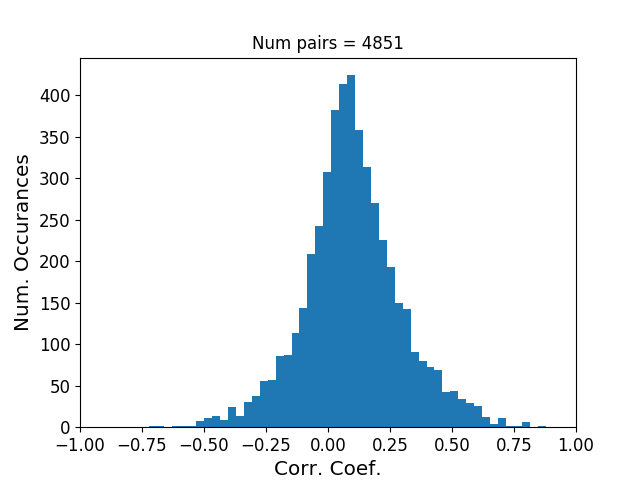
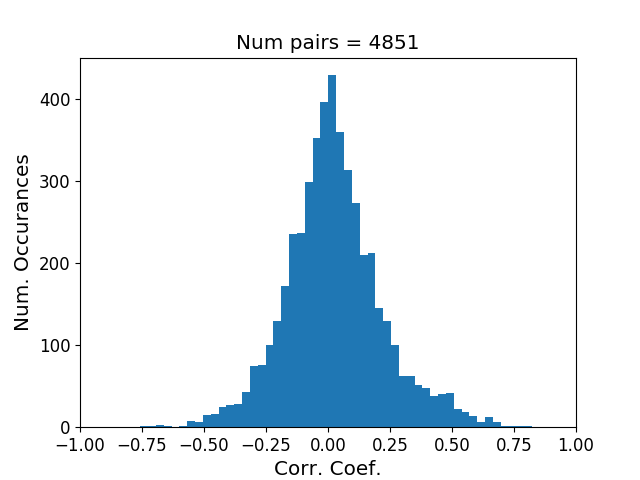
Added some code to the measurement analysis.

diff --git a/py/measurement_distribution_analysis.py b/py/measurement_distribution_analysis.py
@@ -35,9 +35,20 @@ def plotMeasureHistogram(analysis_frame, measurement, x_label, y_label, x_lims=N
     plt.title(title, fontsize='x-large') if title != '' else None
     plt.xticks(fontsize='large'); plt.yticks(fontsize='large')
 
-m=0
+cell_info = pd.read_csv(os.path.join(csv_dir, 'cell_info.csv'), index_col=0)
+m=1
 mouse_name = ep.mouse_names[m]
 analysis_frame = ep.loadAnalysisFrame(mouse_name, args.bin_width, csv_dir)
+analysis_frame = analysis_frame.join(cell_info['cell_region'], how='left', on='first_cell_id')
+analysis_frame = analysis_frame.rename(columns={'cell_region':'first_cell_region'})
+analysis_frame = analysis_frame.join(cell_info['cell_region'], how='left', on='second_cell_id')
+analysis_frame = analysis_frame.rename(columns={'cell_region':'second_cell_region'})
+data_regions = analysis_frame.first_cell_region.unique().values
+measure_regional_aggregation = pd.DataFrame()
+for region_pair in combinations(data_regions, 2):
+    region_pair_analysis_frame = analysis_frame.loc[(analysis_frame.first_cell_region == region_pair[0]) & (analysis_frame.second_cell_region == region_pair[1]) |
+        (analysis_frame.first_cell_region == region_pair[1]) & (analysis_frame.second_cell_region == region_pair[0])]
+    measure_regional_aggregation.append({'first_region':region_pair[0], 'second_region':region_pair[1], 'num_pairs':region_pair_analysis_frame.shape[0], 'mean_corr':region_pair_analysis_frame.corr_coef.mean(), 'std_corr':region_pair_analysis_frame.corr_coef.std(), 'mean_shuff_corr':region_pair_analysis_frame.shuff_corr.mean(), 'std_shuff_corr':region_pair_analysis_frame.shuff_corr.std(), 'mean_info':region_pair_analysis_frame.bias_corrected_mi.mean(), 'std_info':region_pair_analysis_frame.bias_corrected_mi.mstd()})
 
 plotMeasureHistogram(analysis_frame, 'corr_coef', 'Corr. Coef.', 'Num. Occurances', x_lims=(-1,1), title='Num pairs = ' + str(analysis_frame.shape[0]))
 file_name = os.path.join(image_dir, 'correlation_histograms','test_corr_hist.png')
